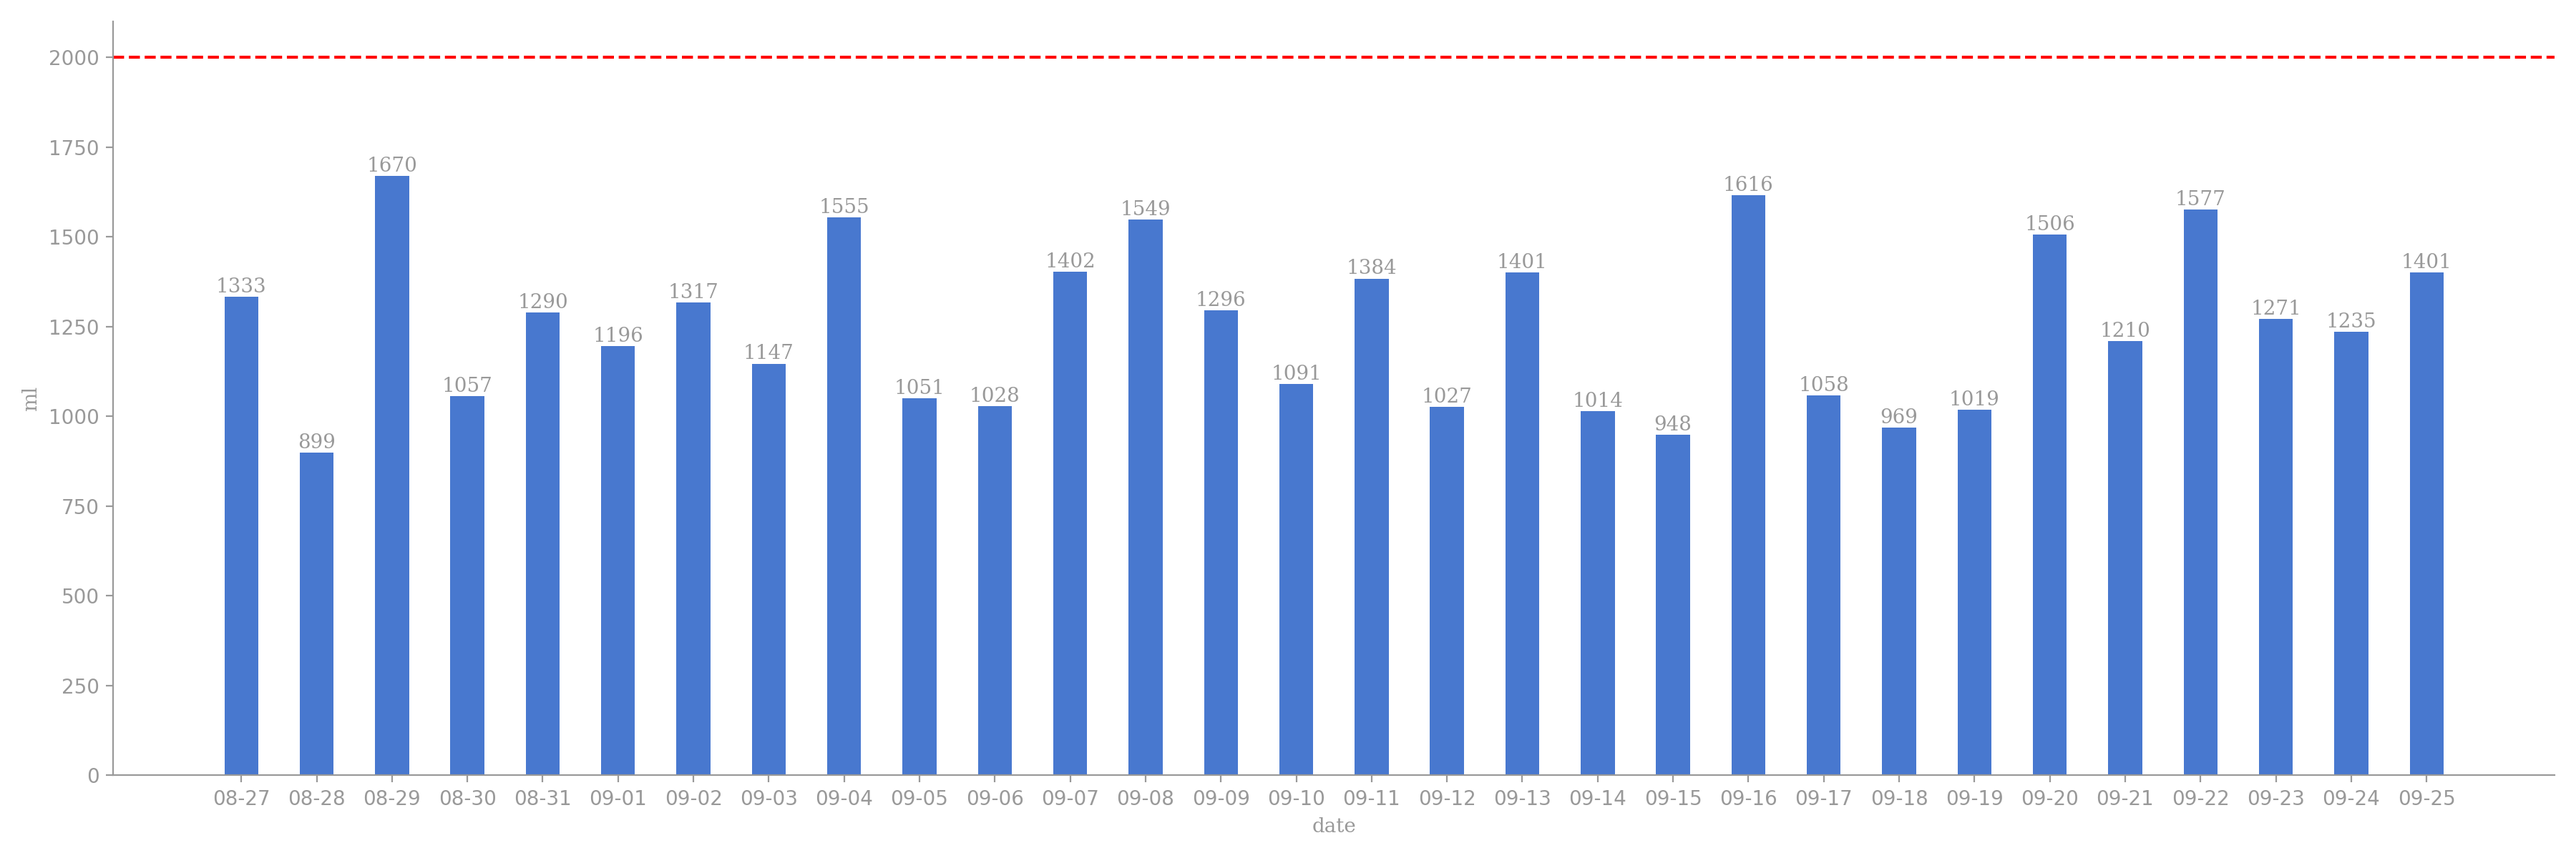
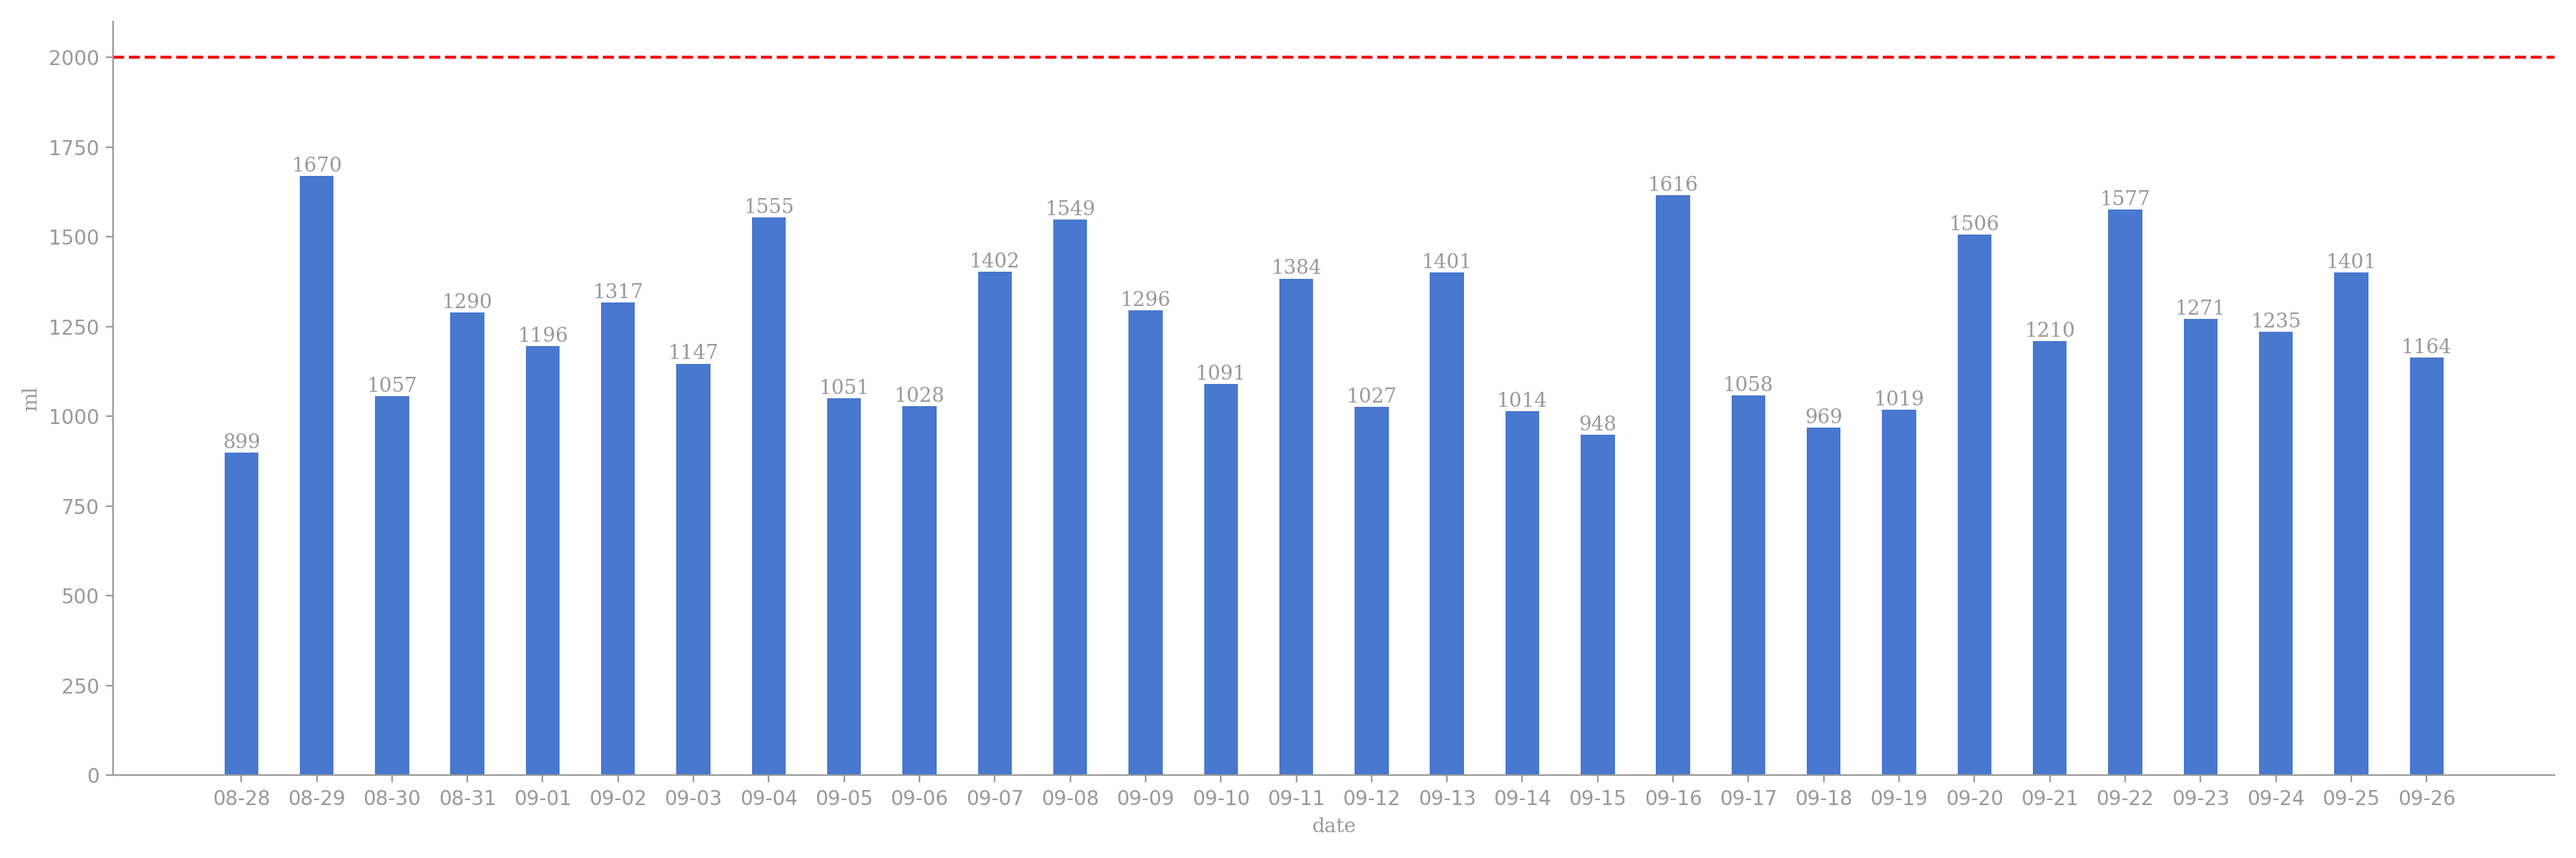
generated readme

Changed region(s): [[0.0622, 0.185, 0.9644, 0.5242]]

diff --git a/README.md b/README.md
@@ -5,12 +5,12 @@
 
 | 今日总饮水量 | 每小时平均饮水量 |
 | :----: | :----: |
-| 1164 | 129 |
+| 102 | 102 |
 </div>
 
-| 日期 | 00:13:59 | 08:03:26 | 08:52:13 | 09:58:07 | 10:19:59 | 13:02:19 | 13:34:20 | 15:11:48 | 17:00:45 | 17:31:59 | 20:11:21 | 21:33:57 | 21:56:19 |
-| :----: | :----: | :----: | :----: | :----: | :----: | :----: | :----: | :----: | :----: | :----: | :----: | :----: | :----: |
-| 2024-09-26 | 81 | 69 | 83 | 118 | 108 | 78 | 63 | 34 | 118 | 95 | 106 | 101 | 110 |
+| 日期 | 00:03:59 |
+| :----: | :----: |
+| 2024-09-27 | 102 |
 
 # 近30日饮水数据
 
@@ -19,8 +19,12 @@
 
 | 总饮水量 | 日均饮水量 |
 | :----: | :----: |
-| 37517 | 1250 |
+| 37348 | 1244 |
 </div>
+
+| 日期 | all | 00:13:59 | 08:03:26 | 08:52:13 | 09:58:07 | 10:19:59 | 13:02:19 | 13:34:20 | 15:11:48 | 17:00:45 | 17:31:59 | 20:11:21 | 21:33:57 | 21:56:19 |
+| :----: | :----: | :----: | :----: | :----: | :----: | :----: | :----: | :----: | :----: | :----: | :----: | :----: | :----: | :----: |
+| 2024-09-26 | 1164 | 81 | 69 | 83 | 118 | 108 | 78 | 63 | 34 | 118 | 95 | 106 | 101 | 110 |
 
 | 日期 | all | 00:15:45 | 07:54:12 | 08:22:34 | 10:13:33 | 13:01:20 | 14:00:22 | 14:21:00 | 14:45:54 | 15:12:12 | 15:48:47 | 16:22:20 | 16:57:05 | 18:28:45 | 20:32:47 | 22:06:23 |
 | :----: | :----: | :----: | :----: | :----: | :----: | :----: | :----: | :----: | :----: | :----: | :----: | :----: | :----: | :----: | :----: | :----: |
@@ -141,8 +145,4 @@
 | 日期 | all | 00:26:48 | 08:02:36 | 08:27:29 | 09:30:12 | 10:15:12 | 12:14:11 | 13:05:37 | 14:35:14 | 16:19:46 | 17:31:05 | 19:11:05 | 20:10:50 | 20:56:26 | 22:27:22 |
 | :----: | :----: | :----: | :----: | :----: | :----: | :----: | :----: | :----: | :----: | :----: | :----: | :----: | :----: | :----: | :----: |
 | 2024-08-27 | 1333 | 121 | 70 | 62 | 110 | 113 | 112 | 102 | 115 | 89 | 67 | 146 | 61 | 76 | 89 |
-
-| 日期 | all | 00:09:18 | 08:00:42 | 09:55:05 | 11:27:49 | 13:08:06 | 13:09:44 | 13:30:18 | 15:10:56 | 16:26:15 | 16:59:54 | 20:02:25 | 20:53:37 | 22:42:14 |
-| :----: | :----: | :----: | :----: | :----: | :----: | :----: | :----: | :----: | :----: | :----: | :----: | :----: | :----: | :----: |
-| 2024-08-26 | 1160 | 81 | 86 | 76 | 89 | 81 | 147 | 196 | 89 | 85 | 75 | 31 | 62 | 62 |
 
